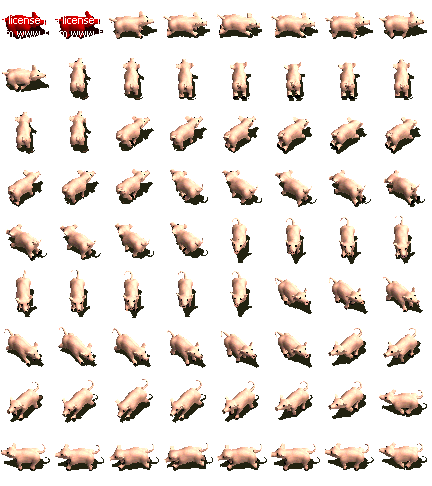
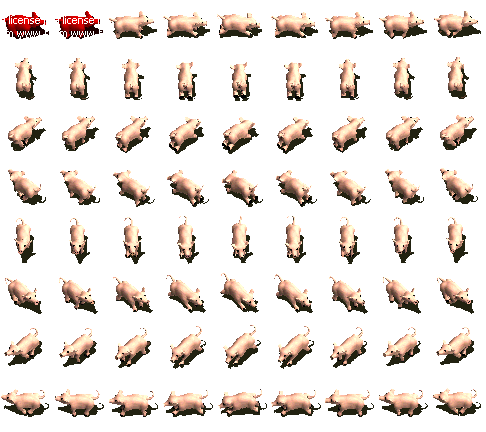
Adapted filenames in ResourceManager. Deleted old dino sprites.

diff --git a/src/gamedev/game/ResourcesManager.java b/src/gamedev/game/ResourcesManager.java
@@ -55,6 +55,8 @@ public class ResourcesManager {
 	public ITiledTextureRegion playerRegion;
 	public BitmapTextureAtlas dinosaurGreenAtlas;
 	public ITiledTextureRegion dinosaurGreenRegion;
+	public BitmapTextureAtlas dinosaurRedAtlas;
+	public ITiledTextureRegion dinosaurRedRegion;
 	public BitmapTextureAtlas treesAtlas;
 	public ITextureRegion[] treeRegions = new ITextureRegion[20];
 	public BitmapTextureAtlas pigAtlas;
@@ -327,6 +329,7 @@ public class ResourcesManager {
 		gameEndPortalAtlas.load();
 		playerAtlas.load();
 		dinosaurGreenAtlas.load();
+		dinosaurRedAtlas.load();
 		// treesAtlas.load();
 		// spearAtlas.load();
 		fightDinoAtlas.load();
@@ -340,6 +343,7 @@ public class ResourcesManager {
 		gameEndPortalAtlas.unload();
 		playerAtlas.unload();
 		dinosaurGreenAtlas.unload();
+		dinosaurRedAtlas.unload();
 		// treesAtlas.unload();
 		// spearAtlas.unload();
 		fightDinoAtlas.unload();
@@ -375,7 +379,7 @@ public class ResourcesManager {
 
 		this.bridgeRegion = BitmapTextureAtlasTextureRegionFactory
 				.createFromAsset(bridgeAtlas, activity, "bridge.png", 0, 0);
-		
+
 		this.oldCavemanAtlas = new BitmapTextureAtlas(textureManager, 36, 35,
 				TextureOptions.DEFAULT);
 
@@ -410,27 +414,26 @@ public class ResourcesManager {
 	private void createAnimalGraphics() {
 		BitmapTextureAtlasTextureRegionFactory.setAssetBasePath("gfx/game/");
 
-		this.dinosaurGreenAtlas = new BitmapTextureAtlas(textureManager, 832,
-				1024, TextureOptions.DEFAULT);
+		this.dinosaurGreenAtlas = new BitmapTextureAtlas(textureManager, 864,
+				864, TextureOptions.DEFAULT);
 
 		this.dinosaurGreenRegion = BitmapTextureAtlasTextureRegionFactory
 				.createTiledFromAsset(this.dinosaurGreenAtlas, activity,
-						"green_dino_0.25_asc.png", 0, 0, 26, 32);
+						"dino_green_0.5.png", 0, 0, 16, 16);
 
-		// this.dinosaurGreenAtlas = new BitmapTextureAtlas(textureManager,
-		// 1664,
-		// 2048, TextureOptions.DEFAULT);
-		//
-		// this.dinosaurGreenRegion = BitmapTextureAtlasTextureRegionFactory
-		// .createTiledFromAsset(this.dinosaurGreenAtlas, activity,
-		// "green_dino_0.5_asc.png", 0, 0, 26, 32);
+		this.dinosaurRedAtlas = new BitmapTextureAtlas(textureManager, 864,
+				864, TextureOptions.DEFAULT);
 
-		this.pigAtlas = new BitmapTextureAtlas(textureManager, 300, 300,
+		this.dinosaurRedRegion = BitmapTextureAtlasTextureRegionFactory
+				.createTiledFromAsset(this.dinosaurGreenAtlas, activity,
+						"dino_red_0.5.png", 0, 0, 16, 16);
+
+		this.pigAtlas = new BitmapTextureAtlas(textureManager, 486, 432,
 				TextureOptions.DEFAULT);
 
 		this.pigRegion = BitmapTextureAtlasTextureRegionFactory
 				.createTiledFromAsset(this.pigAtlas, activity, "pig.png", 0, 0,
-						8, 8);
+						9, 8);
 
 	}
 
